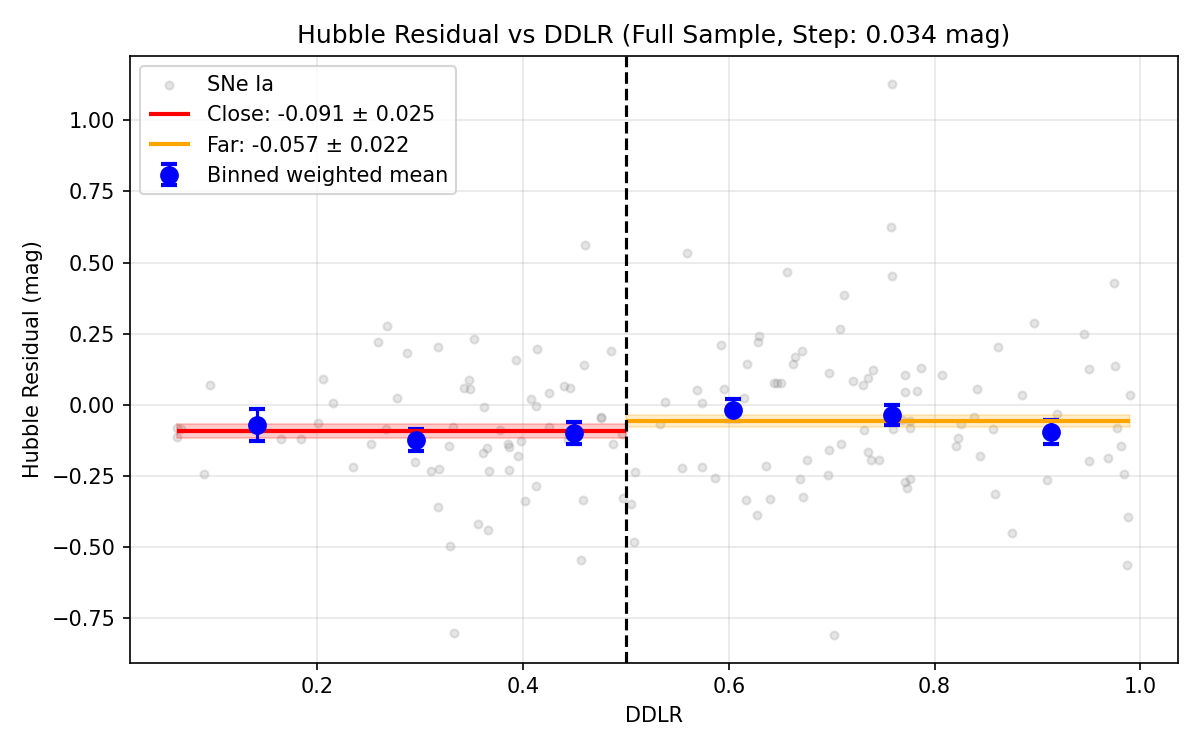
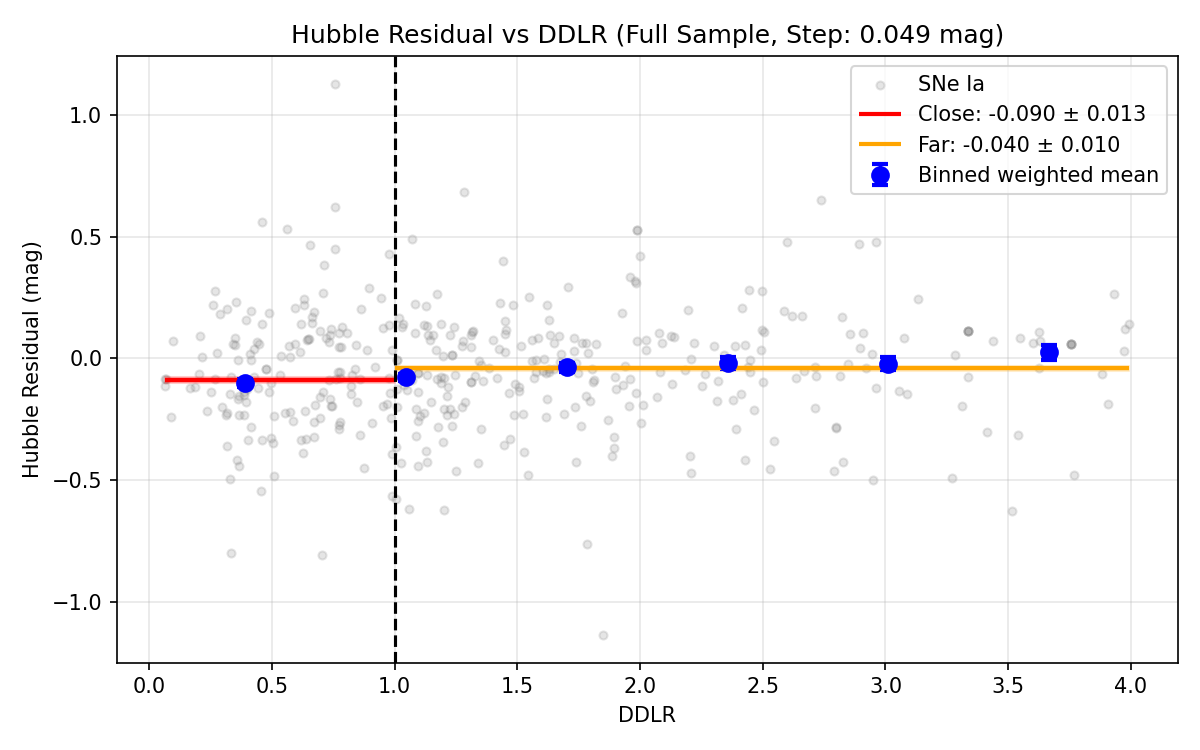
Small changes
Changed intrinsic scatter term
Deleted graphs

diff --git a/Euclid Analysis/analysis_tools.py b/Euclid Analysis/analysis_tools.py
@@ -52,7 +52,7 @@ def get_weighted_stats(residuals, observational_errors, bias_errors, sigma_int=0
     
     return weighted_mean, uncertainty
 
-def get_weighted_stats2(residuals, observational_errors, sigma_int=0.11):
+def get_weighted_stats2(residuals, observational_errors, sigma_int=0.017):
     """
     Calculates weighted mean using both observational error and intrinsic scatter.
     """
@@ -72,7 +72,7 @@ def run_stats(low_res, high_res):
     ks_stat, ks_p = ks_2samp(low_res, high_res)
     return {"t_stat": t_stat, "t_p": t_p, "ks_stat": ks_stat, "ks_p": ks_p}
 
-def binned_weighted_mean(x, y, observational_errors, bias_errors,  bins=6, sigma_int=0.11):
+def binned_weighted_mean(x, y, observational_errors, bias_errors,  bins=6, sigma_int=0.017):
     """Returns bin centers, weighted means, and uncertainties per bin."""
     edges = np.linspace(x.min(), x.max(), bins + 1)
     centers = (edges[:-1] + edges[1:]) / 2
@@ -86,7 +86,7 @@ def binned_weighted_mean(x, y, observational_errors, bias_errors,  bins=6, sigma
             means[i], errs[i] = get_weighted_stats(y[mask], observational_errors[mask], bias_errors[mask], sigma_int=sigma_int)
     return centers, means, errs
 
-def binned_weighted_mean2(x, y, observational_errors,  bins=6, sigma_int=0.11):
+def binned_weighted_mean2(x, y, observational_errors,  bins=6, sigma_int=0.017):
     """Returns bin centers, weighted means, and uncertainties per bin."""
     edges = np.linspace(x.min(), x.max(), bins + 1)
     centers = (edges[:-1] + edges[1:]) / 2

diff --git a/DES Analysis/analysis_tools.py b/DES Analysis/analysis_tools.py
@@ -38,7 +38,7 @@ def calculate_physics2(df, alpha=ALPHA, beta=BETA, m0=M0_AVG, omega_m=OMEGA_M):
     return df
 
 
-def get_weighted_stats(residuals, observational_errors, bias_errors, sigma_int=0.11):
+def get_weighted_stats(residuals, observational_errors, bias_errors, sigma_int=0.017):
     """
     Calculates weighted mean using both observational error and intrinsic scatter.
     """
@@ -52,7 +52,7 @@ def get_weighted_stats(residuals, observational_errors, bias_errors, sigma_int=0
     
     return weighted_mean, uncertainty
 
-def get_weighted_stats2(residuals, observational_errors, sigma_int=0.11):
+def get_weighted_stats2(residuals, observational_errors, sigma_int=0.017):
     """
     Calculates weighted mean using both observational error and intrinsic scatter.
     """
@@ -88,7 +88,7 @@ def binned_weighted_mean(x, y, observational_errors, bias_errors,  bins=6, sigma
             means[i], errs[i] = get_weighted_stats(y[mask], observational_errors[mask], bias_errors[mask], sigma_int=sigma_int)
     return centers, means, errs
 
-def binned_weighted_mean2(x, y, observational_errors,  bins=6, sigma_int=0.11):
+def binned_weighted_mean2(x, y, observational_errors,  bins=6, sigma_int=0.017):
     """Returns bin centers, weighted means, and uncertainties per bin."""
     edges = np.linspace(x.min(), x.max(), bins + 1)
     centers = (edges[:-1] + edges[1:]) / 2

diff --git a/MCMC/analysis_tools.py b/MCMC/analysis_tools.py
@@ -23,7 +23,7 @@ def calculate_physics(df, alpha=ALPHA, beta=BETA, m0=M0_AVG, omega_m=OMEGA_M):
     df['hubble_residual'] = df['mu_no_mass'] - df['mu_expected']
     return df
 
-def get_weighted_stats(residuals, observational_errors, sigma_int=0.11):
+def get_weighted_stats(residuals, observational_errors, sigma_int=0.017):
     """
     Calculates weighted mean using both observational error and intrinsic scatter.
     """
@@ -43,7 +43,7 @@ def run_stats(low_res, high_res):
     ks_stat, ks_p = ks_2samp(low_res, high_res)
     return {"t_stat": t_stat, "t_p": t_p, "ks_stat": ks_stat, "ks_p": ks_p}
 
-def binned_weighted_mean(x, y, observational_errors, bins=6, sigma_int=0.11):
+def binned_weighted_mean(x, y, observational_errors, bins=6, sigma_int=0.017):
     """Returns bin centers, weighted means, and uncertainties per bin."""
     edges = np.linspace(x.min(), x.max(), bins + 1)
     centers = (edges[:-1] + edges[1:]) / 2

diff --git a/Euclid Analysis/DDLR_step.py b/Euclid Analysis/DDLR_step.py
@@ -63,9 +63,9 @@ df = df.dropna(subset=["zHD", "mB", "x1", "c", "HOST_LOGMASS", "MUERR", "x0", "D
 df = calculate_physics2(df)
 
 # FILTER
-df = df[df["DDLR"] < 1]
+df = df[df["DDLR"] < 4]
 
-def compute_ddlr_step(group_df, title_suffix, threshold=0.5):
+def compute_ddlr_step(group_df, title_suffix, threshold=1):
     """Compute and plot Hubble residual vs DDLR for a given group."""
     # SPLIT DATA BASED ON THRESHOLD
     low_df = group_df[group_df['DDLR'] < threshold]
@@ -160,5 +160,4 @@ def compute_ddlr_step(group_df, title_suffix, threshold=0.5):
     plt.savefig(out_dir / f"Euc_DDLR_step_{title_suffix.replace(' ', '_')}.png", dpi=150)
     plt.show()
 
-# Run the calculation (example using threshold 1.0)
 compute_ddlr_step(df, "Full Sample")

diff --git a/DES Analysis/DES_DDLR_step.py b/DES Analysis/DES_DDLR_step.py
@@ -24,11 +24,11 @@ df = df[df['PROBIA_BEAMS'] > 0.95].dropna(subset=['zHD', 'mB', 'x1', 'c', 'HOST_
 df = calculate_physics2(df)
 
 # FILTER DATA BASED ON HOST_DDLR
-df = df[df["HOST_DDLR"] < 1]   # Restricting to SNe within the galaxy region
+df = df[df["HOST_DDLR"] < 4]   # Restricting to SNe within the galaxy region
 df = df[df["HOST_DDLR"] > -5]  # Removes the -9 placeholder values
 
 
-def compute_HOST_DDLR_step(group_df, title_suffix, threshold=0.5):
+def compute_HOST_DDLR_step(group_df, title_suffix, threshold=1):
     """Compute and plot Hubble residual vs HOST_DDLR with full summary output."""
     
     # SPLIT DATA BASED ON THRESHOLD

diff --git a/MCMC/MCMC_DDLR.py b/MCMC/MCMC_DDLR.py
@@ -89,7 +89,7 @@ def lnprior(theta):
     lp = -0.5 * (T0 / 0.05)**2 
     
     # Tighten sig_decay
-    if (0.1 < sig_decay < 3.0 and 0.01 < sig_int < 0.2):
+    if (0.1 < sig_decay < 3.0 and 0.01 < sig_int < 0.1):
         return lp
     
     return -np.inf
@@ -102,7 +102,7 @@ def lnprob(theta, X_raw, y, yerr, ddlr):
 # MCMC running
 data_args = (X_center, y, yerr, ddlr)
 nwalkers, niter = 64, 20000
-initial = np.array([-0.05, 0.00, 0.02, 0.0, 1.0, 0.1])
+initial = np.array([-0.05, 0.00, 0.02, 0.0, 1.0, 0.015])
 ndim = len(initial)
 p0 = [initial + 1e-3 * np.random.randn(ndim) for i in range(nwalkers)]
 

diff --git a/MCMC/MCMC.py b/MCMC/MCMC.py
@@ -69,7 +69,7 @@ def lnlike(theta, X, y, yerr, splits):
     
     mod = model(theta[:4], X, splits) # Use first 4 params 
     
-    # Add intrinsic scatter to measurement error
+    # I have added instrinsic scatter
     sigma2 = yerr**2 + sig_int**2
     
     return -0.5 * np.sum(((y - mod)**2 / sigma2) + np.log(2 * np.pi * sigma2))
@@ -94,7 +94,7 @@ def lnprob(theta, X, y, yerr, splits):
 
 # Initialise MCMC
 nwalkers = 64
-niter = 15000
+niter = 25000
 # Initial guesses,  tiny steps (0.02) and zero offset
 initial = np.array([0.02, 0.02, 0.02, 0.0, 0.1])
 ndim = len(initial)
